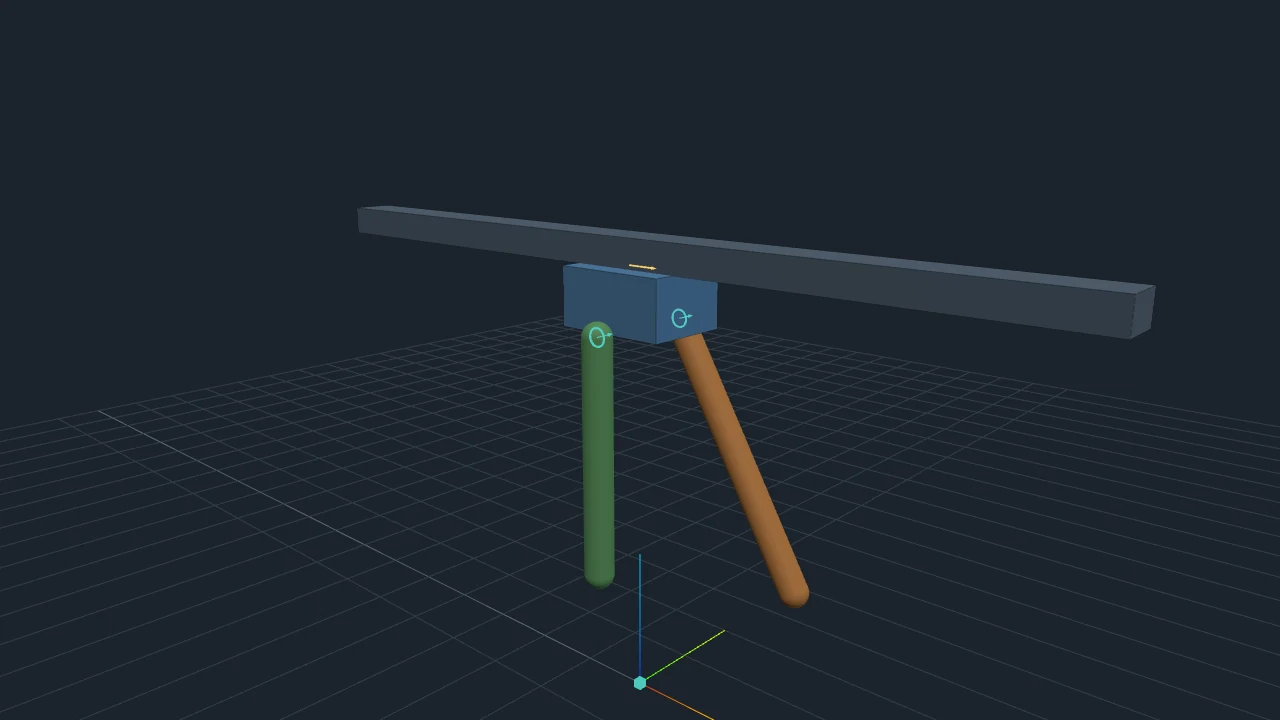
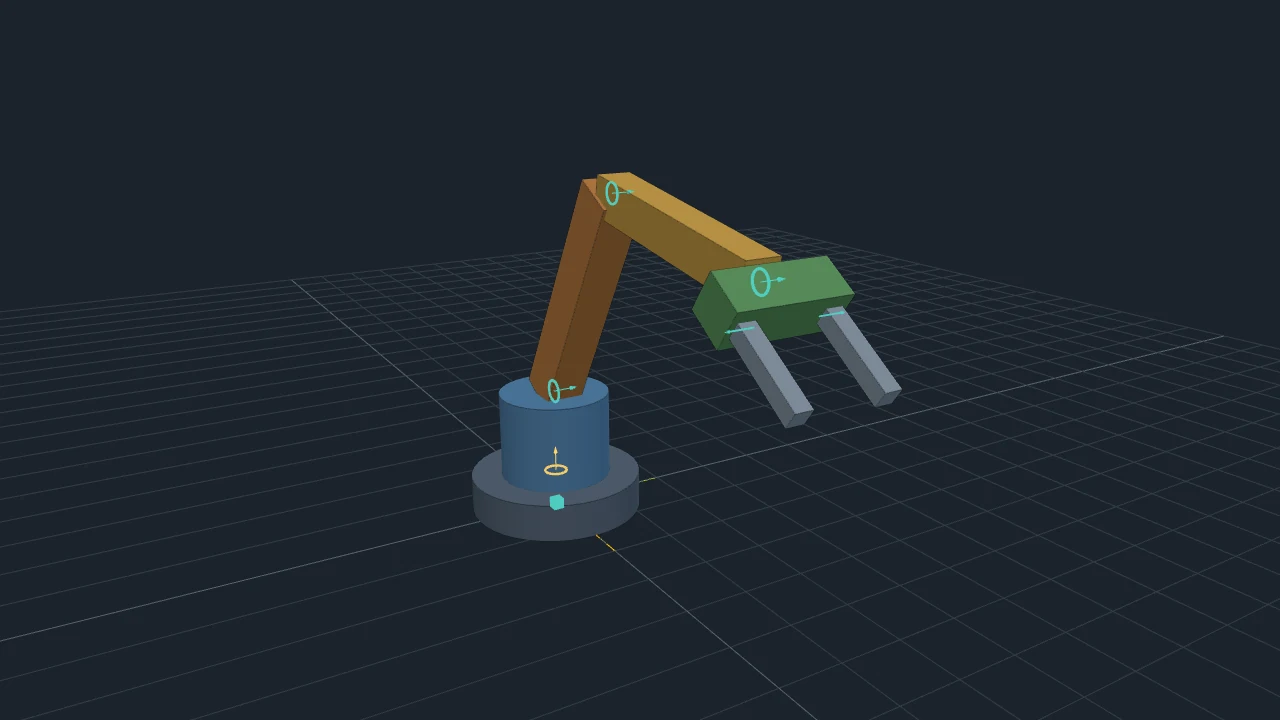
Add an arm with a two-finger gripper example, checked against the Newton-Euler reference, and show it in the ReadMe in place of the older screenshots

diff --git a/docs/direction.md b/docs/direction.md
@@ -111,7 +111,7 @@ Later, from the same proposal: merging a rebuild with hand-made work (Part 1), a
 
 ## Where milestone A stands
 
-Built (October 2026): the core additions above, with engine and JavaScript tests; the window as described under What a user does, steps 1 to 7, except motor mode; the model builder with the articulated-body equations on the joint edges; three examples (a pendulum, a two-link arm, a cart carrying two pendulums); unit tests; engine tests against the Newton-Euler reference (and MuJoCo where it is installed); a window test that drives the page in a browser and has Konjugate's engine validate the model it builds.
+Built (October 2026): the core additions above, with engine and JavaScript tests; the window as described under What a user does, steps 1 to 7, except motor mode; the model builder with the articulated-body equations on the joint edges; four examples (a pendulum, a two-link arm, a cart carrying two pendulums, an arm with a two-finger gripper); unit tests; engine tests against the Newton-Euler reference (and MuJoCo where it is installed); a window test that drives the page in a browser and has Konjugate's engine validate the model it builds.
 
 Still to do in milestone A: a warning before a build replaces hand-made work; selecting several solids to move together; dragging a joint's point in the view.
 

diff --git a/ReadMe.md b/ReadMe.md
@@ -2,7 +2,7 @@
 
 Draw a robot, and get a [Konjugate](https://github.com/zenineasa/Konjugate) model of it. A simple CAD-like window: place solids, click a point on one solid and a point on another to join them, say how they join and what drives each joint, and press Build. In the canvas, **each solid is a node and each joint is an edge between two solids**, so the robot can be wired to motors, batteries, controllers and anything else Konjugate models, then run, driven with sliders, forked, fitted and optimised. The robot moves by its joints' own equations (Featherstone's articulated-body method, split along the joints), which Konjugate's engine runs like any other: nothing outside the graph solves it, and every equation can be read and edited on its edge in the canvas.
 
-![A cart sliding on a rail with two pendulums hanging from it, drawn in the Robotics window's 3D view](screenshots/konjugate.robotics.webp)
+![An arm on a turning waist reaching out with a two-finger gripper, drawn in the Robotics window's 3D view](screenshots/konjugate.robotics.webp)
 
 ## Status
 
